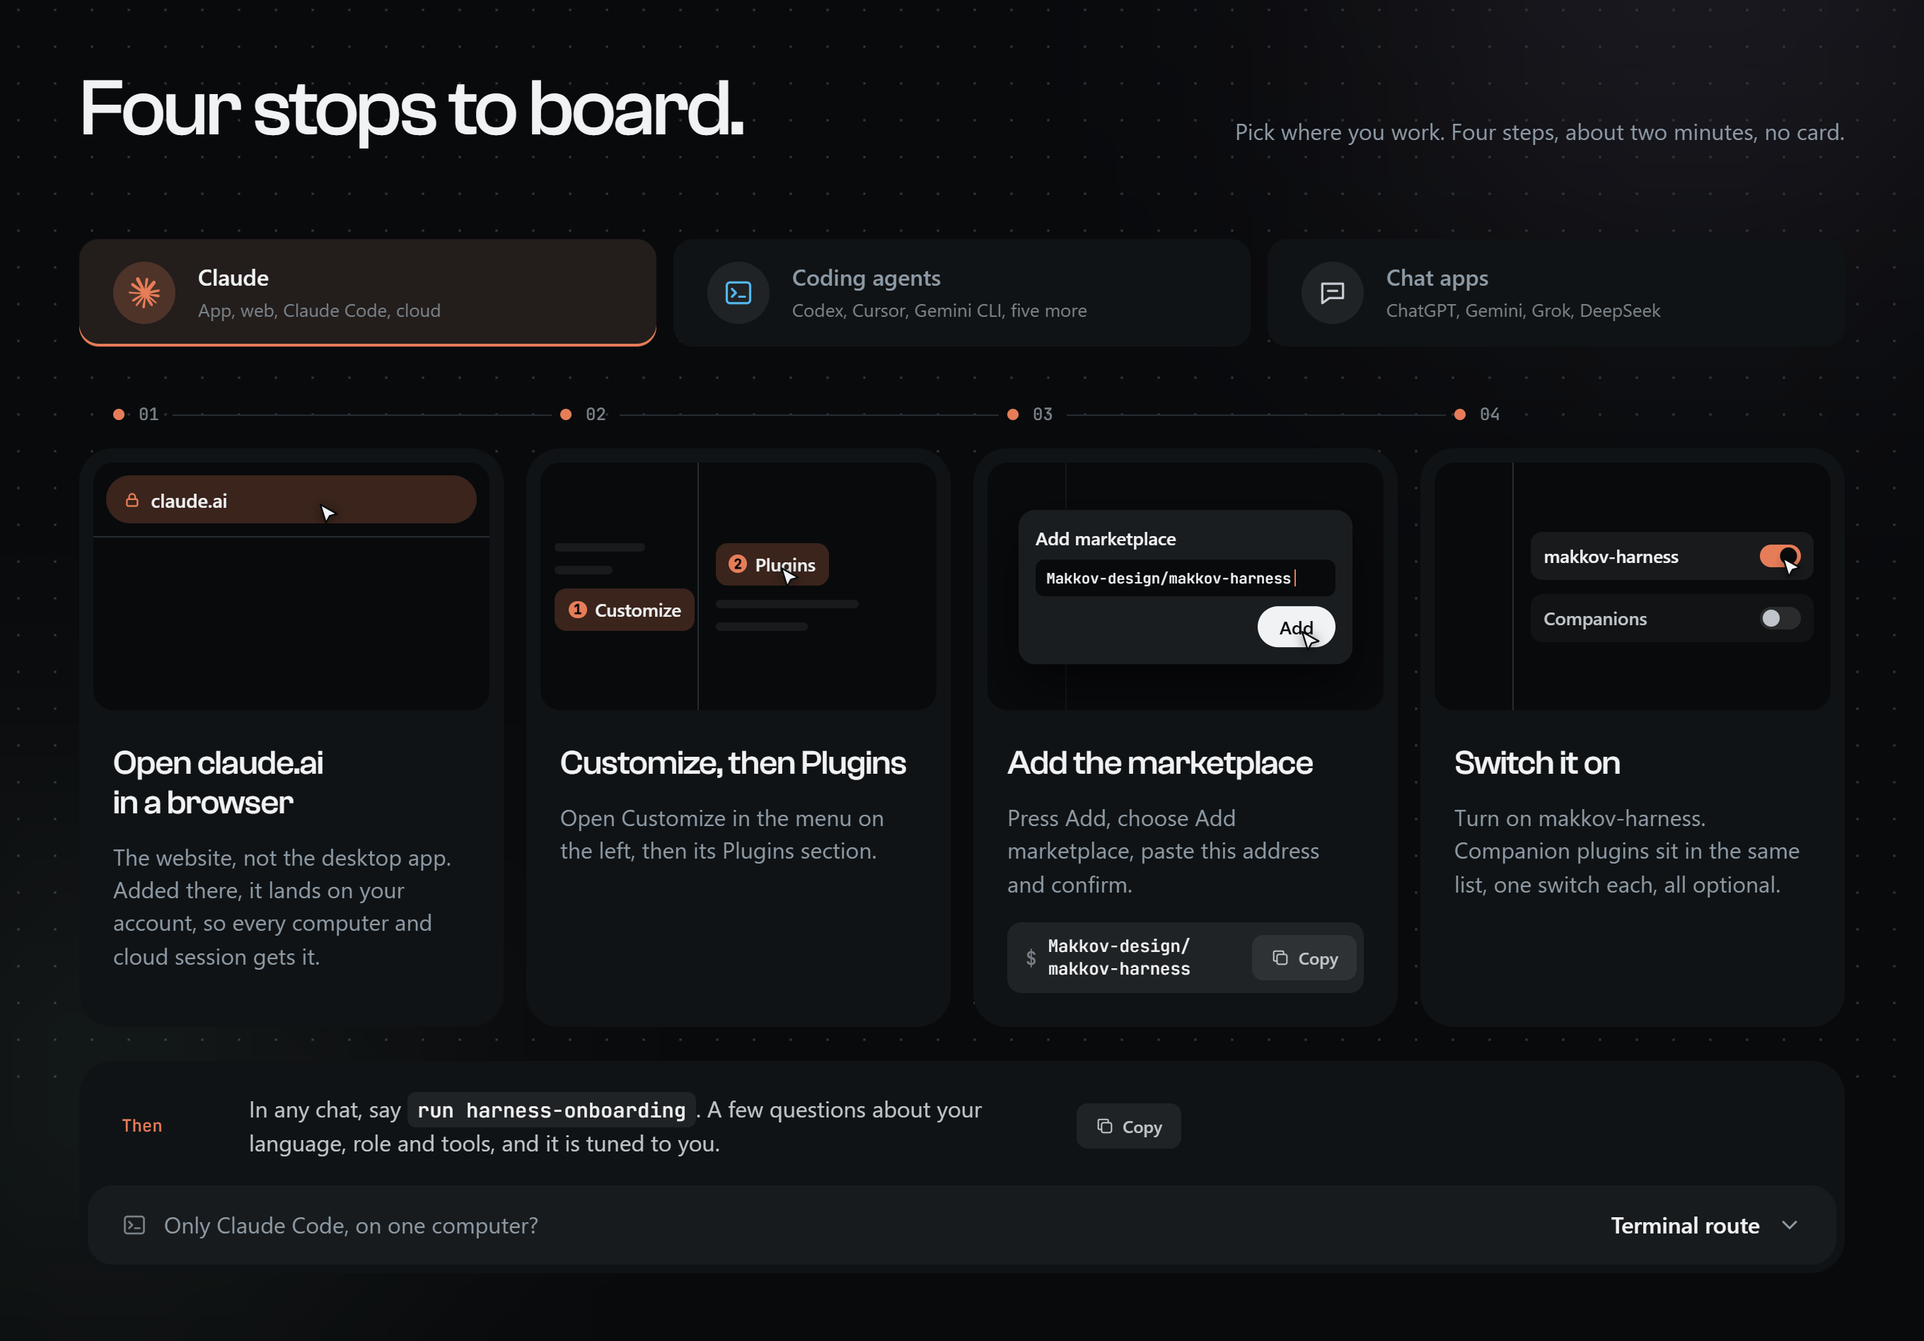
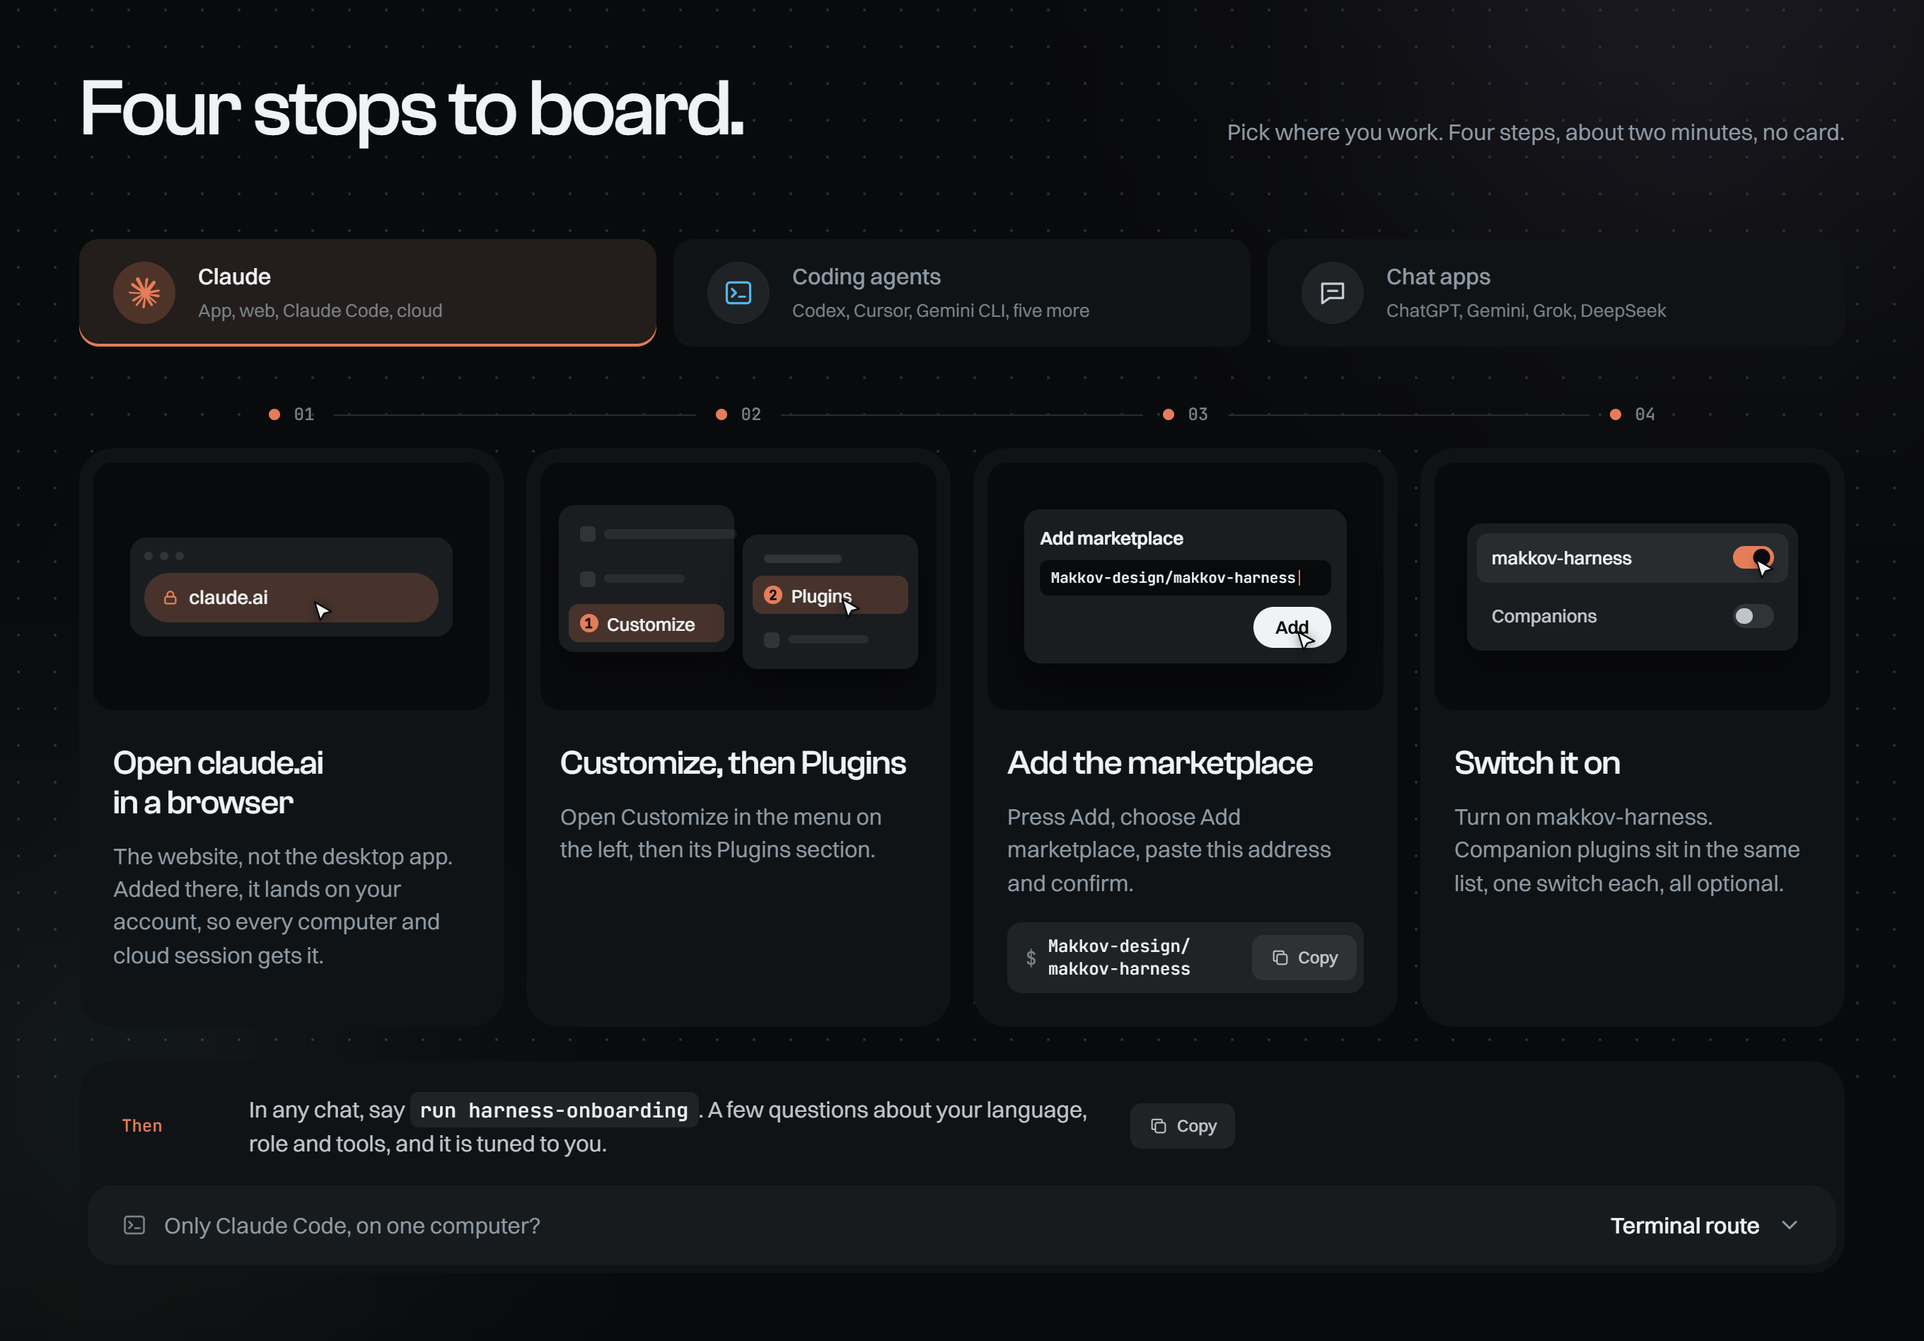
Install steps: centred stops, a timeline on phones, centred screens
- Desktop: each step's number sits centred over its card, the hairline runs
  between the numbers.
- Phones: an event-style timeline, numbers in circles on a line at the left,
  cards to the right.
- Screens drop every divider and frame line; each is one centred piece of the
  interface: the address bar, the menu with Customize leading to Plugins, the
  Add marketplace dialog, the plugin list, the agent's chat, the new project.

diff --git a/docs/install.css b/docs/install.css
@@ -49,12 +49,14 @@
 .step-link:hover { text-decoration-color: var(--color-ink); }
 .step-copy .copy { min-height: 36px; }
 
-/* the stops: a still line, a dot in the path's hue and the number */
-.stop { position: relative; display: flex; align-items: center; gap: 10px; height: 16px; padding-left: 24px; }
+/* the stops: the number centred over each card, a still hairline running between them */
+.stop { position: relative; display: flex; align-items: center; justify-content: center; gap: 10px; height: 16px; }
+.stop::before, .stop::after { content: ""; flex: 1; height: 1px; background: var(--color-rule); }
+.stop::before { margin-left: calc(var(--gap-cards) / -2); margin-right: 4px; }
+.stop::after { margin-right: calc(var(--gap-cards) / -2); margin-left: 4px; }
+.step:first-child .stop::before, .step:last-child .stop::after { visibility: hidden; }
 .stop i { flex: none; width: 8px; height: 8px; border-radius: 50%; background: var(--way); }
 .stop span { color: var(--ink-dim); font: 500 12px/1 var(--font-code); }
-.stop::after { content: ""; flex: 1; height: 1px; margin-right: calc(-1 * (var(--gap-cards) + 24px) + 6px); background: var(--color-rule); }
-.step:last-child .stop::after { display: none; }
 
 /* the small screen: a clean ground, a light frame for where it lives, the control large */
 .sv { position: relative; display: flex; flex-direction: column; aspect-ratio: 16 / 10; overflow: hidden; border-radius: 14px; background: var(--color-paper); color: var(--color-muted); font: 500 4.6cqi/1.25 var(--font-body); letter-spacing: 0; }
@@ -64,26 +66,38 @@
 .sv-ph { display: block; flex: none; width: 70%; height: 0.5em; border-radius: 99em; background: var(--tint-2); }
 .sv-ph.is-short { width: 45%; }
 
-/* frames: a browser bar, or an app with a menu on the left */
-.sv-top { flex: none; display: flex; align-items: center; padding: 0.7em; border-bottom: 1px solid var(--color-rule); }
-.sv-addr { display: flex; align-items: center; gap: 0.5em; width: 100%; padding: 0.6em 0.9em; border-radius: 99em; font-size: 1.05em; }
+/* centred pieces of interface: a browser's address bar, a menu card, a dialog, a list */
+.sv-browser { display: flex; flex-direction: column; gap: 0.7em; width: 90%; padding: 0.8em; border-radius: 0.9em; background: var(--color-paper-3); }
+.sv-dots { display: flex; gap: 0.35em; }
+.sv-dots i { width: 0.5em; height: 0.5em; border-radius: 50%; background: var(--tint-3); }
+.sv-addr { display: flex; align-items: center; gap: 0.5em; padding: 0.65em 0.9em; border-radius: 99em; font-size: 1.05em; }
 .sv-lock { width: 0.95em; height: 0.95em; fill: none; stroke: var(--way); stroke-width: 2.2; stroke-linecap: round; }
-.sv-page { flex: 1; }
-.sv-app { flex: 1; display: grid; grid-template-columns: 40% minmax(0, 1fr); min-height: 0; }
-.sv-app.is-dim { opacity: 0.35; }
-.sv-side { display: flex; flex-direction: column; align-items: flex-start; justify-content: center; gap: 0.75em; padding: 0.9em 0.8em; border-right: 1px solid var(--color-rule); }
-.sv-app.is-narrow { grid-template-columns: 20% minmax(0, 1fr); }
-.sv-main { display: flex; flex-direction: column; align-items: flex-start; justify-content: center; gap: 0.75em; padding: 0.9em; }
+.sv-card { display: flex; flex-direction: column; gap: 0.35em; padding: 0.55em; border-radius: 0.85em; background: var(--color-paper-3); box-shadow: 0 0.8em 1.8em oklch(0% 0 0 / 0.4); }
+.sv-cascade { display: flex; align-items: flex-start; gap: 0.5em; width: 100%; }
+.sv-cascade .sv-card { flex: 1; min-width: 0; }
+.sv-cascade .sv-card.is-back { margin-top: 1.6em; }
+.sv-card.is-list { width: 92%; gap: 0.45em; }
+.sv-card.is-side { width: 66%; }
+.sv-item { display: flex; align-items: center; gap: 0.5em; min-height: 2.1em; padding: 0 0.6em; border-radius: 0.55em; color: var(--color-ink-2); white-space: nowrap; }
+.sv-item > i { flex: none; width: 0.85em; height: 0.85em; border-radius: 0.25em; background: var(--tint-3); }
+.sv-item .sv-ph { width: 100%; }
+.sv-item .sv-ph.is-short { width: 60%; }
+.sv-item.sv-hit { background: var(--way-a); color: var(--color-ink); }
+.sv-item.is-new { justify-content: center; font-weight: 600; }
+.sv-ph.is-title { width: 50%; margin: 0.55em 0.6em 0.35em; background: var(--tint-3); }
+.sv-chatwin { display: flex; flex-direction: column; gap: 0.7em; width: 94%; }
+.sv-bub.is-agent { align-self: flex-start; color: var(--color-ink-2); }
 .sv-pill { display: inline-flex; align-items: center; gap: 0.45em; padding: 0.55em 0.75em; border-radius: 0.65em; background: var(--tint-2); color: var(--color-ink-2); white-space: nowrap; }
 .sv-pill.sv-hit { background: var(--way-a); color: var(--color-ink); }
-.sv-modal { position: absolute; left: 8%; right: 8%; top: 50%; translate: 0 -50%; display: flex; flex-direction: column; gap: 0.6em; padding: 0.9em; border-radius: 0.9em; background: var(--color-paper-3); box-shadow: 0 1.2em 2.6em oklch(0% 0 0 / 0.55); }
+.sv-modal { display: flex; width: 90%; flex-direction: column; gap: 0.6em; padding: 0.9em; border-radius: 0.9em; background: var(--color-paper-3); box-shadow: 0 1.2em 2.6em oklch(0% 0 0 / 0.55); }
 .sv-modal b { color: var(--color-ink); font-weight: 600; }
 .sv-field { display: flex; align-items: center; overflow: hidden; padding: 0.65em 0.75em; border-radius: 0.6em; background: var(--color-paper); color: var(--color-ink); font: 500 0.8em/1 var(--font-code); white-space: nowrap; }
 .sv-caret { flex: none; width: 1px; height: 1.15em; margin-left: 2px; background: var(--way); }
 .sv-btn, .sv-btn.sv-hit { align-self: flex-end; padding: 0.5em 1.2em; border-radius: 99em; background: var(--color-ink); color: var(--color-paper); font-weight: 600; }
-.sv-row { display: flex; align-items: center; gap: 0.5em; width: 100%; padding: 0.7em 0.75em; border-radius: 0.65em; background: var(--tint-1); }
+.sv-row { display: flex; align-items: center; gap: 0.5em; width: 100%; padding: 0.75em 0.8em; border-radius: 0.6em; }
 .sv-row b { flex: 1; min-width: 0; overflow: hidden; color: var(--color-ink-2); font-weight: 500; text-overflow: ellipsis; white-space: nowrap; }
 .sv-row.is-main { background: var(--tint-2); }
+.sv-row + .sv-row { margin-top: 0; }
 .sv-row.is-main b { color: var(--color-ink); }
 .sv-tog { position: relative; flex: none; width: 2.2em; height: 1.25em; border-radius: 99em; background: var(--tint-3); }
 .sv-tog::before { content: ""; position: absolute; left: 0.16em; top: 0.16em; width: 0.93em; height: 0.93em; border-radius: 50%; background: var(--color-ink-2); }
@@ -97,7 +111,7 @@
 .sv-logos svg:has(use[href="#l-copilot"]) { color: var(--br-copilot); }
 .sv-logos svg:has(use[href="#l-windsurf"]) { color: var(--br-windsurf); }
 .sv-logos i { display: grid; place-items: center; width: 2.2em; height: 2.2em; border-radius: 0.5em; background: var(--tint-3); color: var(--color-ink); font: 600 0.8em/1 var(--font-code); font-style: normal; }
-.sv-composer { flex: none; display: flex; align-items: center; gap: 0.6em; margin: 0 0.7em 0.7em; padding: 0.55em 0.55em 0.55em 0.9em; border-radius: 1em; background: var(--tint-2); }
+.sv-composer { display: flex; align-items: center; gap: 0.6em; padding: 0.55em 0.55em 0.55em 0.9em; border-radius: 1em; background: var(--tint-2); }
 .sv-typed { flex: 1; min-width: 0; color: var(--color-ink); font: 500 0.78em/1.4 var(--font-code); word-break: break-all; }
 .sv-send, .sv-send.sv-hit { display: grid; place-items: center; flex: none; width: 2.1em; height: 2.1em; border-radius: 50%; background: var(--color-ink); }
 .sv-send svg { width: 1em; height: 1em; fill: none; stroke: var(--color-paper); stroke-width: 2.4; stroke-linecap: round; stroke-linejoin: round; }
@@ -154,7 +168,7 @@
 /* tablets: two steps a row; the line breaks with the row */
 @media (max-width: 60rem) {
   .path .steps { grid-template-columns: repeat(2, minmax(0, 1fr)); row-gap: var(--space-xl); }
-  .path .step:nth-child(2) .stop::after { display: none; }
+  .path .step:nth-child(odd) .stop::before, .path .step:nth-child(even) .stop::after { visibility: hidden; }
   .ways { margin-top: var(--space-xl); }
   .ways button { gap: var(--space-sm); padding: 0 var(--space-md); }
   .way-txt small { display: none; }
@@ -167,9 +181,14 @@
   .way-ico svg { width: 20px; height: 20px; }
   .way-txt b { font-size: 13px; }
   .path .steps { grid-template-columns: minmax(0, 1fr); row-gap: var(--space-lg); --gap-cards: 24px; }
-  .stop::after { display: none; }
-  .step + .step .stop::before { content: ""; position: absolute; left: 27px; bottom: calc(50% + 4px); width: 1px; height: calc(var(--space-lg) + 4px); background: var(--color-rule); }
-  .stop { padding-left: 23px; }
+  .path .step { grid-template-columns: 32px minmax(0, 1fr); grid-template-rows: auto; column-gap: var(--space-sm); }
+  .stop { flex-direction: column; justify-content: flex-start; align-self: stretch; gap: 0; height: auto; }
+  .stop::before { display: none; }
+  .stop::after { flex: 1; width: 1px; height: auto; margin: var(--space-xs) 0 calc(-1 * var(--space-lg)); }
+  .path .step:nth-child(n) .stop::after { visibility: visible; }
+  .path .step:last-child .stop::after { visibility: hidden; }
+  .stop i { display: none; }
+  .stop span { display: grid; place-items: center; width: 32px; height: 32px; border-radius: 50%; background: var(--way-a); color: var(--color-ink); }
   .step-card { padding: 8px 8px var(--space-lg); }
   .step-body { padding: 0 12px; }
   .step-body h3 { font-size: 1.375rem; }

diff --git a/docs/index.html b/docs/index.html
@@ -23,7 +23,7 @@
 <link rel="stylesheet" href="out.css?v=20261106c">
 <link rel="stylesheet" href="gate.css?v=20261106f">
 <link rel="stylesheet" href="last.css?v=20261107c">
-<link rel="stylesheet" href="install.css?v=20261107g">
+<link rel="stylesheet" href="install.css?v=20261107h">
 <link rel="stylesheet" href="mobile.css?v=20261107h">
 <script>document.documentElement.classList.add('js');if(!matchMedia('(prefers-reduced-motion: reduce)').matches){document.documentElement.classList.add('intro');setTimeout(function(){document.documentElement.classList.add('intro-go','intro-copy','intro-done')},5000);}</script>
 </head>
@@ -338,28 +338,28 @@
         <li class="step">
           <div class="stop" aria-hidden="true"><i></i><span>01</span></div>
           <div class="step-card">
-            <div class="sv" aria-hidden="true"><span class="sv-top"><span class="sv-addr sv-hit"><svg class="sv-lock" viewBox="0 0 24 24"><rect x="5" y="11" width="14" height="9" rx="2"/><path d="M8 11V8a4 4 0 0 1 8 0v3"/></svg>claude.ai</span></span><span class="sv-page"></span><span class="sv-cur"><svg viewBox="0 0 28 28"><path d="M6 3.5 22 12.6l-6.9 1.9-3.6 6.6Z"/></svg></span></div>
+            <div class="sv sv--center" aria-hidden="true"><span class="sv-browser"><span class="sv-dots"><i></i><i></i><i></i></span><span class="sv-addr sv-hit"><svg class="sv-lock" viewBox="0 0 24 24"><rect x="5" y="11" width="14" height="9" rx="2"/><path d="M8 11V8a4 4 0 0 1 8 0v3"/></svg>claude.ai</span></span><span class="sv-cur"><svg viewBox="0 0 28 28"><path d="M6 3.5 22 12.6l-6.9 1.9-3.6 6.6Z"/></svg></span></div>
             <div class="step-body"><h3>Open claude.ai in a browser</h3><p>The website, not the desktop app. Added there, it lands on your account, so every computer and cloud session gets it.</p></div>
           </div>
         </li>
         <li class="step">
           <div class="stop" aria-hidden="true"><i></i><span>02</span></div>
           <div class="step-card">
-            <div class="sv" aria-hidden="true"><span class="sv-app"><span class="sv-side"><span class="sv-ph"></span><span class="sv-ph is-short"></span><span class="sv-pill sv-hit"><b class="sv-n">1</b>Customize</span></span><span class="sv-main"><span class="sv-pill sv-hit"><b class="sv-n">2</b>Plugins</span><span class="sv-ph"></span><span class="sv-ph is-short"></span></span></span><span class="sv-cur"><svg viewBox="0 0 28 28"><path d="M6 3.5 22 12.6l-6.9 1.9-3.6 6.6Z"/></svg></span></div>
+            <div class="sv sv--center" aria-hidden="true"><span class="sv-cascade"><span class="sv-card"><span class="sv-item"><i></i><span class="sv-ph"></span></span><span class="sv-item"><i></i><span class="sv-ph is-short"></span></span><span class="sv-item sv-hit"><b class="sv-n">1</b>Customize</span></span><span class="sv-card is-back"><span class="sv-ph is-title"></span><span class="sv-item sv-hit"><b class="sv-n">2</b>Plugins</span><span class="sv-item"><i></i><span class="sv-ph is-short"></span></span></span></span><span class="sv-cur"><svg viewBox="0 0 28 28"><path d="M6 3.5 22 12.6l-6.9 1.9-3.6 6.6Z"/></svg></span></div>
             <div class="step-body"><h3>Customize, then Plugins</h3><p>Open Customize in the menu on the left, then its Plugins section.</p></div>
           </div>
         </li>
         <li class="step">
           <div class="stop" aria-hidden="true"><i></i><span>03</span></div>
           <div class="step-card">
-            <div class="sv" aria-hidden="true"><span class="sv-app is-dim is-narrow"><span class="sv-side"></span><span class="sv-main"></span></span><span class="sv-modal"><b>Add marketplace</b><span class="sv-field">Makkov-design/makkov-harness<i class="sv-caret"></i></span><span class="sv-btn sv-hit">Add</span></span><span class="sv-cur"><svg viewBox="0 0 28 28"><path d="M6 3.5 22 12.6l-6.9 1.9-3.6 6.6Z"/></svg></span></div>
+            <div class="sv sv--center" aria-hidden="true"><span class="sv-modal"><b>Add marketplace</b><span class="sv-field">Makkov-design/makkov-harness<i class="sv-caret"></i></span><span class="sv-btn sv-hit">Add</span></span><span class="sv-cur"><svg viewBox="0 0 28 28"><path d="M6 3.5 22 12.6l-6.9 1.9-3.6 6.6Z"/></svg></span></div>
             <div class="step-body"><h3>Add the marketplace</h3><p>Press Add, choose Add marketplace, paste this address and confirm.</p><div class="sit-cmd step-cmd"><span class="sit-sign" aria-hidden="true">$</span><code><span class="nb">Makkov-design</span>/<wbr><span class="nb">makkov-harness</span></code><button class="copy" type="button" data-copy-text="Makkov-design/makkov-harness" data-label="Copy" aria-label="Copy the marketplace address"><svg viewBox="0 0 24 24" aria-hidden="true"><rect x="8" y="8" width="12" height="12" rx="2.5"/><path d="M16 8V5.5A1.5 1.5 0 0 0 14.5 4h-9A1.5 1.5 0 0 0 4 5.5v9A1.5 1.5 0 0 0 5.5 16H8"/></svg><span>Copy</span></button></div></div>
           </div>
         </li>
         <li class="step">
           <div class="stop" aria-hidden="true"><i></i><span>04</span></div>
           <div class="step-card">
-            <div class="sv" aria-hidden="true"><span class="sv-app is-narrow"><span class="sv-side"></span><span class="sv-main"><span class="sv-row is-main"><b>makkov-harness</b><i class="sv-tog is-on sv-hit"></i></span><span class="sv-row"><b>Companions</b><i class="sv-tog"></i></span></span></span><span class="sv-cur"><svg viewBox="0 0 28 28"><path d="M6 3.5 22 12.6l-6.9 1.9-3.6 6.6Z"/></svg></span></div>
+            <div class="sv sv--center" aria-hidden="true"><span class="sv-card is-list"><span class="sv-row is-main"><b>makkov-harness</b><i class="sv-tog is-on sv-hit"></i></span><span class="sv-row"><b>Companions</b><i class="sv-tog"></i></span></span><span class="sv-cur"><svg viewBox="0 0 28 28"><path d="M6 3.5 22 12.6l-6.9 1.9-3.6 6.6Z"/></svg></span></div>
             <div class="step-body"><h3>Switch it on</h3><p>Turn on makkov-harness. Companion plugins sit in the same list, one switch each, all optional.</p></div>
           </div>
         </li>
@@ -390,7 +390,7 @@
         <li class="step">
           <div class="stop" aria-hidden="true"><i></i><span>02</span></div>
           <div class="step-card">
-            <div class="sv" aria-hidden="true"><span class="sv-page"></span><span class="sv-composer"><span class="sv-typed">Install https://github.com/Makkov-design/makkov-harness</span><i class="sv-send sv-hit"><svg viewBox="0 0 24 24"><path d="M12 19V5M6 11l6-6 6 6"/></svg></i></span><span class="sv-cur"><svg viewBox="0 0 28 28"><path d="M6 3.5 22 12.6l-6.9 1.9-3.6 6.6Z"/></svg></span></div>
+            <div class="sv sv--center" aria-hidden="true"><span class="sv-chatwin"><span class="sv-bub is-agent">What should we work on?</span><span class="sv-composer"><span class="sv-typed">Install https://github.com/Makkov-design/makkov-harness</span><i class="sv-send sv-hit"><svg viewBox="0 0 24 24"><path d="M12 19V5M6 11l6-6 6 6"/></svg></i></span></span><span class="sv-cur"><svg viewBox="0 0 28 28"><path d="M6 3.5 22 12.6l-6.9 1.9-3.6 6.6Z"/></svg></span></div>
             <div class="step-body"><h3>Paste this message</h3><p>It reads the install guide in the repository and does the rest.</p><div class="sit-cmd step-cmd"><span class="sit-sign" aria-hidden="true">›</span><code><span class="nb">Install</span> <span class="nb">https:</span>/<wbr>/<wbr><span class="nb">github.com</span>/<wbr><span class="nb">Makkov-design</span>/<wbr><span class="nb">makkov-harness</span></code><button class="copy" type="button" data-copy-text="Install https://github.com/Makkov-design/makkov-harness" data-label="Copy" aria-label="Copy the message"><svg viewBox="0 0 24 24" aria-hidden="true"><rect x="8" y="8" width="12" height="12" rx="2.5"/><path d="M16 8V5.5A1.5 1.5 0 0 0 14.5 4h-9A1.5 1.5 0 0 0 4 5.5v9A1.5 1.5 0 0 0 5.5 16H8"/></svg><span>Copy</span></button></div></div>
           </div>
         </li>
@@ -429,7 +429,7 @@
         <li class="step">
           <div class="stop" aria-hidden="true"><i></i><span>01</span></div>
           <div class="step-card">
-            <div class="sv" aria-hidden="true"><span class="sv-app"><span class="sv-side"><span class="sv-pill sv-hit">+ New project</span><span class="sv-ph"></span><span class="sv-ph is-short"></span></span><span class="sv-main"></span></span><span class="sv-cur"><svg viewBox="0 0 28 28"><path d="M6 3.5 22 12.6l-6.9 1.9-3.6 6.6Z"/></svg></span></div>
+            <div class="sv sv--center" aria-hidden="true"><span class="sv-card is-side"><span class="sv-item sv-hit is-new">+ New project</span><span class="sv-item"><i></i><span class="sv-ph"></span></span><span class="sv-item"><i></i><span class="sv-ph is-short"></span></span><span class="sv-item"><i></i><span class="sv-ph"></span></span></span><span class="sv-cur"><svg viewBox="0 0 28 28"><path d="M6 3.5 22 12.6l-6.9 1.9-3.6 6.6Z"/></svg></span></div>
             <div class="step-body"><h3>Create a project</h3><p>ChatGPT calls it Projects, Gemini calls it Gems. In Grok or DeepSeek, attach the files to a chat.</p></div>
           </div>
         </li>
